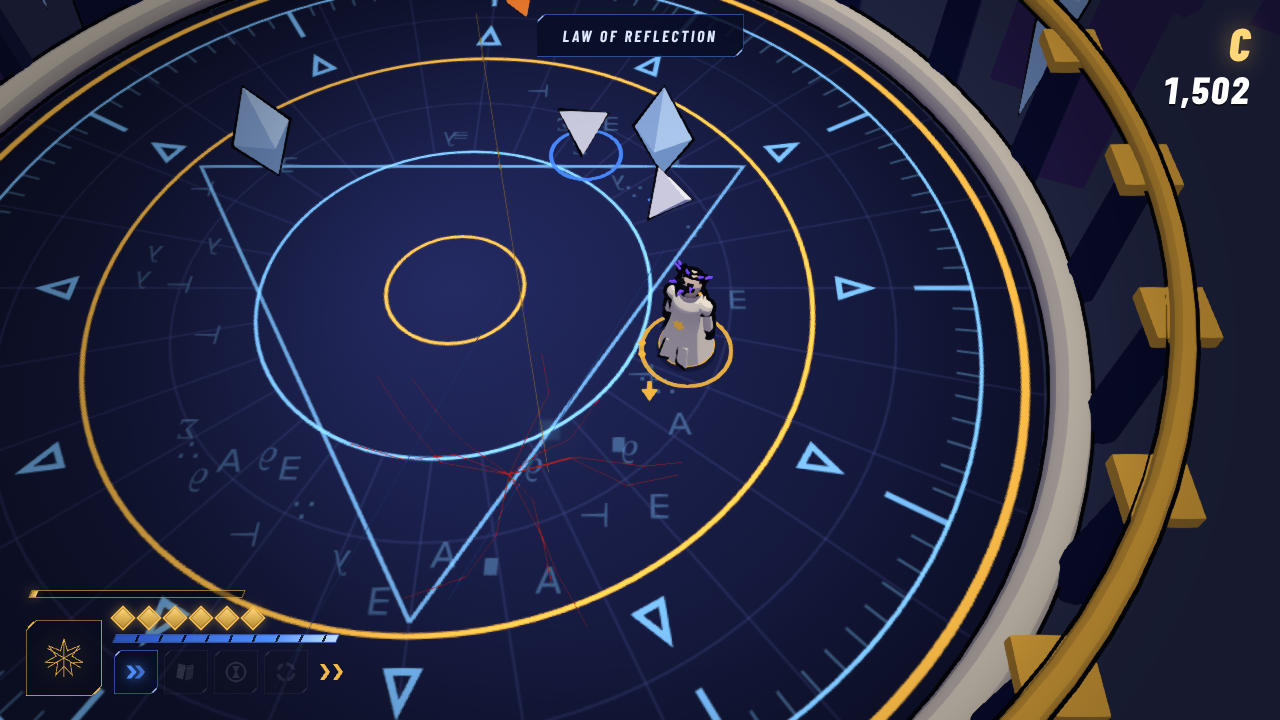
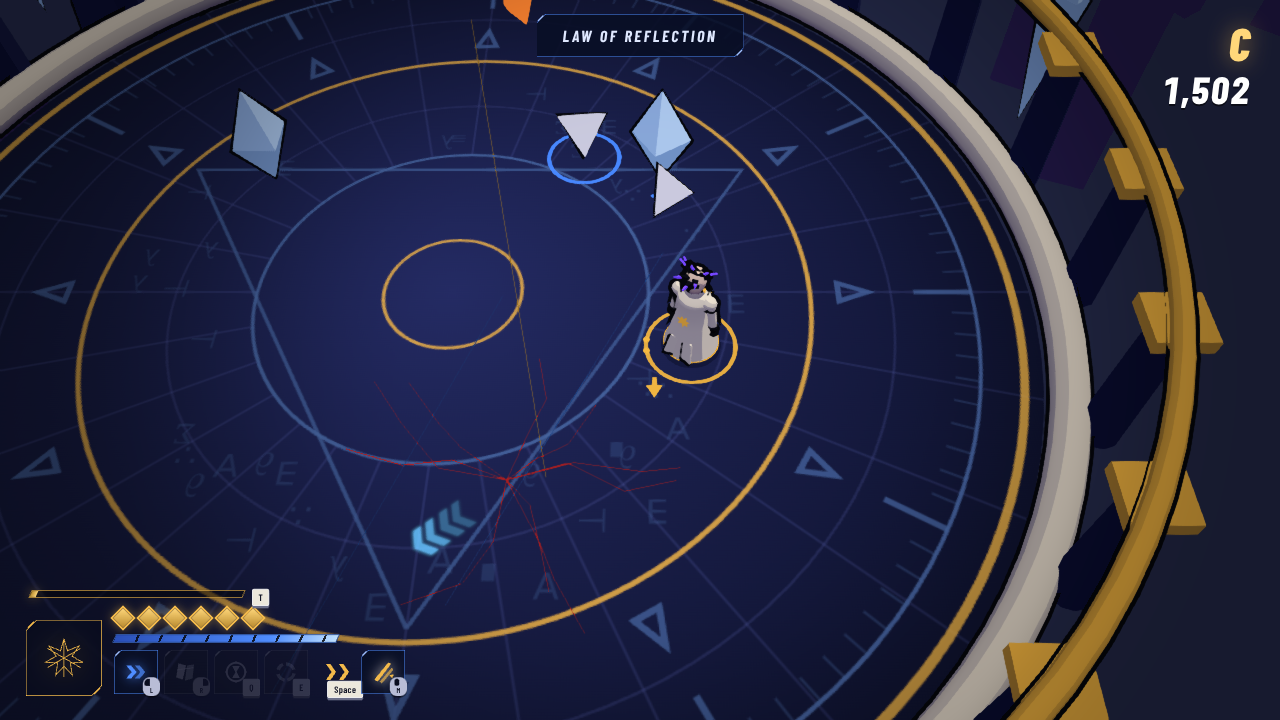
Floor readability, playtest recording and replay, diagnostics export fix
Dark arena floors pull their blue inlay toward the navy ground and stop it
blooming, so glowing blue on the floor is always a threat or Law effect.
Before/after: captures/floor-readability-before-after.png.

Every arena now records its def, options and input frames plus a summary
(outcome, time, Seals lost by cause, compounds). Human analog input is
snapped to 1/4096 so recordings replay exactly; tools/replay.ts replays an
exported diagnostics file headless. The existing diagnostics export put its
data under a key the shell ignores; it now uses the shell's game/replay
fields.

Tested: npm run check green (69 tests incl. new record/replay round trip);
browser e2e keyboard+mouse session exported and replayed with a match.

Claude-Session: https://claude.ai/code/session_01HCSJ6HR3sh4mwvRhn2D6KD

diff --git a/src/meta/PlaytestLog.ts b/src/meta/PlaytestLog.ts
@@ -1,0 +1,115 @@
+import type { EncounterDef } from "../sim/encounter";
+import type { InputFrame } from "../sim/types";
+import type { WorldOptions } from "../sim/World";
+
+/**
+ * Playtest recording. The sim is deterministic, so an arena's def + options + input frames reproduce the run exactly
+ * (`tools/replay.ts`). Each arena also gets a small summary (outcome, time, Seals lost by cause, compounds) for
+ * reading many sessions at a glance. Inputs stay in memory for the last few arenas; summaries persist per browser.
+ */
+export interface ArenaSummary {
+  id: string;
+  kind: string;
+  status: "clear" | "lost" | "quit";
+  frames: number;
+  seed: number | string;
+  difficulty?: string;
+  sealsLost: Record<string, number>;
+  compounds: number;
+  firstCompoundFrame: number | null;
+  score: number;
+  rank?: string;
+  bossPhase?: number;
+  at: number;
+}
+
+/** Input frames, run-length encoded: [repeat, mx, mz, ax, az, aiming(0|1), buttons]. */
+export type PackedInput = [number, number, number, number, number, number, number];
+
+export interface ArenaRecording { summary: ArenaSummary; def: EncounterDef; opts: WorldOptions; inputs: PackedInput[] }
+
+const KEEP_RECORDINGS = 12;
+const KEEP_SUMMARIES = 400;
+const STORE_KEY = "mandark-ishtar.playtest.v1";
+
+/** Analog input is snapped to 1/4096 before it reaches the sim, so recordings are compact and replay bit-exact. */
+export function quantize(f: InputFrame): InputFrame {
+  const q = (v: number) => Math.round(v * 4096) / 4096;
+  return { mx: q(f.mx), mz: q(f.mz), ax: q(f.ax), az: q(f.az), aiming: f.aiming, b: f.b };
+}
+
+export function unpack(inputs: PackedInput[]): InputFrame[] {
+  const out: InputFrame[] = [];
+  for (const [n, mx, mz, ax, az, aiming, b] of inputs) for (let i = 0; i < n; i++) out.push({ mx, mz, ax, az, aiming: aiming === 1, b });
+  return out;
+}
+
+export class PlaytestLog {
+  readonly recordings: ArenaRecording[] = [];
+  summaries: ArenaSummary[] = [];
+  private cur: ArenaRecording | null = null;
+
+  constructor(private readonly storage: Pick<Storage, "getItem" | "setItem"> | null = null) {
+    try {
+      const raw = storage?.getItem(STORE_KEY);
+      const parsed = raw ? (JSON.parse(raw) as { summaries?: ArenaSummary[] }) : null;
+      if (parsed && Array.isArray(parsed.summaries)) this.summaries = parsed.summaries;
+    } catch { /* unavailable or corrupt: start empty */ }
+  }
+
+  begin(def: EncounterDef, opts: WorldOptions): void {
+    if (this.cur) this.end("quit", { frames: this.frameCount(), score: 0, compounds: this.cur.summary.compounds });
+    this.cur = {
+      def: JSON.parse(JSON.stringify(def)) as EncounterDef,
+      opts: JSON.parse(JSON.stringify(opts)) as WorldOptions,
+      inputs: [],
+      summary: { id: def.id, kind: def.kind, status: "quit", frames: 0, seed: opts.seed, difficulty: opts.difficulty, sealsLost: {}, compounds: 0, firstCompoundFrame: null, score: 0, at: Date.now() },
+    };
+  }
+
+  /** Call once per sim step with the exact frame given to `World.step`. */
+  input(f: InputFrame): void {
+    const c = this.cur; if (!c) return;
+    const last = c.inputs[c.inputs.length - 1];
+    const a = f.aiming ? 1 : 0;
+    if (last && last[1] === f.mx && last[2] === f.mz && last[3] === f.ax && last[4] === f.az && last[5] === a && last[6] === f.b) last[0]++;
+    else c.inputs.push([1, f.mx, f.mz, f.ax, f.az, a, f.b]);
+  }
+
+  sealLost(cause: string): void { const s = this.cur?.summary; if (s) s.sealsLost[cause] = (s.sealsLost[cause] ?? 0) + 1; }
+  compound(frame: number): void { const s = this.cur?.summary; if (s && s.firstCompoundFrame === null) s.firstCompoundFrame = frame; }
+
+  end(status: ArenaSummary["status"], r: { frames: number; score: number; compounds: number; rank?: string; bossPhase?: number }): void {
+    const c = this.cur; if (!c) return;
+    this.cur = null;
+    Object.assign(c.summary, { status, frames: r.frames, score: r.score, compounds: r.compounds, rank: r.rank, bossPhase: r.bossPhase });
+    this.recordings.push(c); if (this.recordings.length > KEEP_RECORDINGS) this.recordings.shift();
+    this.summaries.push(c.summary); if (this.summaries.length > KEEP_SUMMARIES) this.summaries.shift();
+    try { this.storage?.setItem(STORE_KEY, JSON.stringify({ summaries: this.summaries })); } catch { /* quota/private mode */ }
+  }
+
+  /** The arena being played right now (status "quit"), so an export taken mid-fight still replays. */
+  inProgress(): ArenaRecording | null {
+    const c = this.cur; if (!c) return null;
+    return { ...c, inputs: c.inputs.map((p) => [...p] as PackedInput), summary: { ...c.summary, sealsLost: { ...c.summary.sealsLost }, status: "quit", frames: this.frameCount() } };
+  }
+
+  private frameCount(): number { return (this.cur?.inputs ?? []).reduce((s, p) => s + p[0], 0); }
+
+  /** Per-stage rollup across every stored summary: attempts, clears, median clear time, top loss causes. */
+  rollup(): Record<string, { attempts: number; clears: number; medianClearS: number; sealsLost: Record<string, number> }> {
+    const out: Record<string, { attempts: number; clears: number; times: number[]; sealsLost: Record<string, number> }> = {};
+    for (const s of this.summaries) {
+      const o = (out[s.id] ??= { attempts: 0, clears: 0, times: [], sealsLost: {} });
+      o.attempts++;
+      if (s.status === "clear") { o.clears++; o.times.push(s.frames / 60); }
+      for (const [k, v] of Object.entries(s.sealsLost)) o.sealsLost[k] = (o.sealsLost[k] ?? 0) + v;
+    }
+    const res: ReturnType<PlaytestLog["rollup"]> = {};
+    for (const [id, o] of Object.entries(out)) {
+      const t = [...o.times].sort((a, b) => a - b);
+      res[id] = { attempts: o.attempts, clears: o.clears, medianClearS: t.length ? Math.round(t[Math.floor(t.length / 2)]!) : 0, sealsLost: o.sealsLost };
+    }
+    return res;
+  }
+}

diff --git a/src/app/App.ts b/src/app/App.ts
@@ -42,6 +42,7 @@ import type { Bot } from "../dev/bots/BotKit";
 import { AssetLoader } from "./AssetLoader";
 import { codexArt } from "../ui/cardArt";
 import { installDevHooks } from "../dev/devHooks";
+import { PlaytestLog, quantize } from "../meta/PlaytestLog";
 import type { Bark } from "../data/barks";
 import { PERF } from "../data/perf";
 import { tunables } from "@slu/web-shell/tuning";
@@ -89,6 +90,7 @@ export class App {
   private hintShown = "";
   readonly perf = { frameMs: [] as number[], simMs: [] as number[], drawCalls: 0, triangles: 0, heapMB: 0 };
   readonly allEvents: string[] = [];
+  readonly playtest = new PlaytestLog((() => { try { return window.localStorage; } catch { return null; } })());
   private onArenaDone: ((status: "clear" | "lost") => void) | null = null;
   private recovery: ReturnType<typeof mountRecoveryUI> | null = null;
   private padConnected = false;
@@ -234,13 +236,17 @@ export class App {
     const w = this.world!;
     let f: InputFrame;
     if (this.bot) f = this.bot.next(w);
-    else f = this.input.frameFor({ x: this.view.markovPos.x, z: this.view.markovPos.z }, 0);
+    else f = quantize(this.input.frameFor({ x: this.view.markovPos.x, z: this.view.markovPos.z }, 0));
+    this.playtest.input(f);
     w.step(f);
     this.view.snap(w);
     for (const e of w.events) this.onEvent(e, w);
     this.onboardingTick(w, f);
     if (w.markov.insightT > 0 && w.frame % 2 === 0) this.vfx.insightLines(w);
-    if (w.status === "clear" || w.status === "lost") { const done = this.onArenaDone; this.onArenaDone = null; done?.(w.status); }
+    if (w.status === "clear" || w.status === "lost") {
+      const r = w.status === "clear" ? w.scorer.finalized : null;
+      this.playtest.end(w.status, { frames: w.frame, score: r?.score ?? Math.round(w.scorer.score), compounds: w.ops.compoundsUsed, rank: r?.rank, bossPhase: w.director.bossPhase });
+      const done = this.onArenaDone; this.onArenaDone = null; done?.(w.status); }
   }
 
   private renderScene(): void {
@@ -289,7 +295,7 @@ export class App {
       case "RingOut": this.ui.feed("RING-OUT", "gold"); break;
       case "Redirect": if ((e.value ?? 0) > 1) this.ui.feed(`REDIRECT ×${e.value}`, "gold"); break;
       case "PrismPass": this.ui.feed(`REDIRECT ×${(e.value ?? 0) + 1}`, "gold"); break;
-      case "CompoundCast": this.ui.feed(compoundName(e.kind ?? ""), "gold"); break;
+      case "CompoundCast": this.playtest.compound(w.frame); this.ui.feed(compoundName(e.kind ?? ""), "gold"); break;
       case "Flourish": this.camera.flourish(); this.music.cadence(); break;
       case "WaveStart": this.music.setLayers(3 + (e.value ?? 0) * 2); break;
       case "LawDeclared": if (e.kind && e.kind !== "ishtar") this.ui.lawCard(e.kind as LawId, this.assets.url(`lawcard.${e.kind}`)); break;
@@ -304,7 +310,7 @@ export class App {
       case "HubrisShatter": this.music.stop(); setTimeout(() => this.music.play(this.cueFor(w.def), w.def.law), 2000); break;
       case "BossIntro": this.barks.pick(`boss${(e.kind ?? "").charAt(0).toUpperCase()}${(e.kind ?? "").slice(1)}`, w.frame, true); break;
       case "Interact": this.onInteract(e.text ?? ""); break;
-      case "SealLost": if ((e.value ?? 6) <= 2) this.barks.pick("lowSeals", w.frame); break;
+      case "SealLost": this.playtest.sealLost(e.kind ?? "unknown"); if ((e.value ?? 6) <= 2) this.barks.pick("lowSeals", w.frame); break;
       case "InsightStart": this.shell.production.onboarding.show("stillness"); break;
       default: break;
     }
@@ -462,7 +468,9 @@ export class App {
 
   startWorld(def: EncounterDef, opts: Partial<WorldOptions>, done: (s: "clear" | "lost") => void): World {
     this.seed++;
-    const w = new World(def, { seed: this.seed, ...opts });
+    const wopts = { seed: this.seed, ...opts };
+    this.playtest.begin(def, wopts);
+    const w = new World(def, wopts);
     this.world = w;
     this.view.load(w, this.progress.data.campaignComplete);
     this.vfx.clear();
@@ -781,7 +789,10 @@ export class App {
   }
 
   exportDiagnostics(): string {
-    const bundle = this.shell.exportPlaytestBundle({ extras: { perf: this.perfSummary(), progress: this.progress.data, events: this.allEvents.slice(-200) } } as never);
+    const bundle = this.shell.exportPlaytestBundle({
+      game: { perf: this.perfSummary(), progress: this.progress.data, events: this.allEvents.slice(-200), playtest: { rollup: this.playtest.rollup(), summaries: this.playtest.summaries } },
+      replay: { recordings: [...this.playtest.recordings, ...[this.playtest.inProgress()].filter((r) => r !== null)] },
+    });
     try {
       const blob = new Blob([bundle], { type: "application/json" });
       const a = document.createElement("a"); a.href = URL.createObjectURL(blob); a.download = "mandark-ishtar-diagnostics.json"; a.click();

diff --git a/src/world/ArenaKit.ts b/src/world/ArenaKit.ts
@@ -32,13 +32,18 @@ function glyphFloorTexture(theme: string, accent: number): { map: THREE.CanvasTe
     for (let i = 0; i < 28; i++) { const a = (i / 28) * Math.PI * 2; base.beginPath(); base.moveTo(cx + Math.cos(a) * 0.34 * cx, cx + Math.sin(a) * 0.34 * cx); base.lineTo(cx + Math.cos(a) * cx, cx + Math.sin(a) * cx); base.stroke(); }
     for (const r of [0.48, 0.76]) { base.beginPath(); base.arc(cx, cx, r * cx, 0, Math.PI * 2); base.stroke(); }
   }
-  const blue = `#${accent.toString(16).padStart(6, "0")}`;
+  // Readability: saturated blue is the threat/Law colour (telegraphs, Certainty rings). On dark floors the inlay is
+  // pulled most of the way to the navy ground and never blooms, so blue that glows on the floor is always a threat.
+  const blue = light ? `#${accent.toString(16).padStart(6, "0")}` : inlayTone(accent);
   const gold = light ? "#c9a24a" : "#f2b94a";
   const rng = new DeterministicRng(theme.length * 977 + theme.charCodeAt(0));
   const g = line;
-  // concentric rules: the outer and middle bands are gold inlay, the rest blue light
+  const [goldC, goldG] = mk();
+  // concentric rules: the outer and middle bands are gold inlay, the rest quiet blue
   for (const [r, w, c] of [[0.97, 7, gold], [0.9, 3, blue], [0.62, 4, gold], [0.34, 3, blue], [0.12, 3, gold]] as [number, number, string][]) {
-    g.strokeStyle = c; g.globalAlpha = light ? 0.55 : 0.9; g.lineWidth = w; g.beginPath(); g.arc(cx, cx, r * cx, 0, Math.PI * 2); g.stroke();
+    for (const ctx of c === gold ? [g, goldG] : [g]) {
+      ctx.strokeStyle = c; ctx.globalAlpha = light ? 0.55 : c === gold ? 0.75 : 0.9; ctx.lineWidth = w; ctx.beginPath(); ctx.arc(cx, cx, r * cx, 0, Math.PI * 2); ctx.stroke();
+    }
   }
   // radial ticks (cuneiform-meets-math)
   g.strokeStyle = blue;
@@ -69,11 +74,18 @@ function glyphFloorTexture(theme: string, accent: number): { map: THREE.CanvasTe
   base.drawImage(lineC, 0, 0);
   const [glowC, glowG] = mk();
   glowG.fillStyle = "#000"; glowG.fillRect(0, 0, size, size);
-  if (!light) glowG.drawImage(lineC, 0, 0);
+  if (!light) { glowG.globalAlpha = 0.55; glowG.drawImage(goldC, 0, 0); glowG.globalAlpha = 1; }
   const tex = (c: HTMLCanvasElement) => { const t = new THREE.CanvasTexture(c); t.colorSpace = THREE.SRGBColorSpace; t.anisotropy = 4; return t; };
   const out = { map: tex(baseC), glow: tex(glowC) };
   texCache.set(theme, out);
   return out;
+}
+
+/** Floor inlay tone for dark floors: the theme accent mixed 60% toward the navy ground. */
+function inlayTone(accent: number): string {
+  const navy = 0x262d63, k = 0.6;
+  const ch = (sh: number) => Math.round(((accent >> sh) & 255) * (1 - k) + ((navy >> sh) & 255) * k);
+  return `rgb(${ch(16)},${ch(8)},${ch(0)})`;
 }
 
 let sky: THREE.Mesh | null = null;

diff --git a/tests/playtest.test.ts b/tests/playtest.test.ts
@@ -1,0 +1,41 @@
+import { describe, expect, it } from "vitest";
+import { encounterById } from "../src/data/trials";
+import { SolverBot } from "../src/dev/bots/SolverBot";
+import { World } from "../src/sim/World";
+import { PlaytestLog, quantize, type ArenaRecording } from "../src/meta/PlaytestLog";
+import { replayRecording } from "../src/dev/replay";
+import { regaliaForTrial } from "../src/campaign/sequence";
+
+describe("playtest recording", () => {
+  it("a recorded arena replays to the same outcome after a JSON round trip", () => {
+    const def = encounterById("1-1")!;
+    const opts = { seed: 42, difficulty: "savant" as const, regalia: regaliaForTrial(1) };
+    const log = new PlaytestLog();
+    log.begin(def, opts);
+    const w = new World(def, opts), bot = new SolverBot();
+    while (w.frame < 60 * 60 * 5 && w.status !== "clear" && w.status !== "lost") {
+      const f = quantize(bot.next(w));
+      log.input(f);
+      w.step(f);
+      for (const e of w.events) if (e.type === "SealLost") log.sealLost(e.kind ?? "unknown");
+    }
+    log.end(w.status === "clear" ? "clear" : "lost", { frames: w.frame, score: w.scorer.finalized?.score ?? Math.round(w.scorer.score), compounds: w.ops.compoundsUsed });
+    expect(w.status).toBe("clear");
+    const rec = JSON.parse(JSON.stringify(log.recordings[0])) as ArenaRecording;
+    expect(rec.inputs.length).toBeLessThan(w.frame); // run-length encoding helps
+    const r = replayRecording(rec);
+    expect(r.status).toBe(rec.summary.status);
+    expect(r.frames).toBe(rec.summary.frames);
+    expect(r.score).toBe(rec.summary.score);
+    expect(r.matches).toBe(true);
+    expect(log.rollup()["1-1"]!.attempts).toBe(1);
+  });
+
+  it("survives missing or corrupt storage", () => {
+    const bad = { getItem: () => "{nope", setItem: () => { throw new Error("quota"); } };
+    const log = new PlaytestLog(bad);
+    log.begin(encounterById("1-1")!, { seed: 1 });
+    log.end("quit", { frames: 0, score: 0, compounds: 0 });
+    expect(log.summaries.length).toBe(1);
+  });
+});

diff --git a/src/dev/replay.ts b/src/dev/replay.ts
@@ -1,0 +1,20 @@
+import { World } from "../sim/World";
+import { unpack, type ArenaRecording } from "../meta/PlaytestLog";
+
+export interface ReplayResult { id: string; status: string; frames: number; score: number; rank?: string; sealsLost: Record<string, number>; matches: boolean }
+
+/** Re-runs a recorded arena headless and checks it ends where the recording says it did. */
+export function replayRecording(rec: ArenaRecording, onFrame?: (w: World) => void): ReplayResult {
+  const w = new World(rec.def, rec.opts);
+  const sealsLost: Record<string, number> = {};
+  for (const f of unpack(rec.inputs)) {
+    if (w.status === "clear" || w.status === "lost") break;
+    w.step(f);
+    for (const e of w.events) if (e.type === "SealLost") sealsLost[e.kind ?? "unknown"] = (sealsLost[e.kind ?? "unknown"] ?? 0) + 1;
+    onFrame?.(w);
+  }
+  const r = w.scorer.finalized;
+  const status = w.status === "clear" || w.status === "lost" ? w.status : "quit";
+  const score = r?.score ?? Math.round(w.scorer.score);
+  return { id: rec.def.id, status, frames: w.frame, score, rank: r?.rank, sealsLost, matches: status === rec.summary.status && w.frame === rec.summary.frames && (status === "quit" || score === rec.summary.score) };
+}

diff --git a/tools/replay.ts b/tools/replay.ts
@@ -1,0 +1,16 @@
+// Replays the recordings inside an exported diagnostics file: npx vite-node tools/replay.ts <file.json>
+import { readFileSync } from "node:fs";
+import { replayRecording } from "../src/dev/replay";
+import type { ArenaRecording, ArenaSummary } from "../src/meta/PlaytestLog";
+
+const file = process.argv[2];
+if (!file) { console.error("usage: npx vite-node tools/replay.ts <diagnostics.json>"); process.exit(1); }
+const bundle = JSON.parse(readFileSync(file, "utf8")) as { game?: { playtest?: { rollup: unknown; summaries: ArenaSummary[] } }; replay?: { recordings: ArenaRecording[] } };
+const pt = bundle.game?.playtest ? { ...bundle.game.playtest, recordings: bundle.replay?.recordings ?? [] } : null;
+if (!pt) { console.error("no playtest data in this file"); process.exit(1); }
+console.log(`${pt.summaries.length} arena summaries, ${pt.recordings.length} recordings\n`);
+console.table(pt.rollup);
+for (const rec of pt.recordings) {
+  const r = replayRecording(rec);
+  console.log(`${r.matches ? "✓" : "✗ DESYNC"} ${r.id} ${r.status} ${(r.frames / 60).toFixed(1)}s score ${r.score} lost ${JSON.stringify(r.sealsLost)}`);
+}

diff --git a/DECISIONS.md b/DECISIONS.md
@@ -76,3 +76,6 @@ Append-only. Format: `YYYY-MM-DD — Decision — Why — Status (LOCKED / provi
 - 2026-11-10 — From the BB:EEX references (settings screens): Settings split into Audio / Gameplay / Display / Controls / Other tabs, switched with LB/RB (Q/E on keyboard) or by clicking; adjustable values show ‹ › on focus and every cycling value accepts left/right; prompt-bar entries are clickable for mouse users. Tab choice is remembered for the session — provisional
 - 2026-11-10 — BB:EEX menu patterns adopted: (1) slanted right-side choice bars that slide in, focused bar filled gold with ink text — main, pause, arcade, Time Attack picker, retry; long lists (Theorems, Codex, Controls) stay in panels; (2) top-centre hint line with a waveform, used only for real instructions/choice info (arcade mode descriptions, rebind capture); (3) settings description panel for options that need a sentence; (4) hex-emblem cards with category frame colours (Law blue, Boss gold, Theorem ivory, Story violet) plus a category word so colour is never the only cue. Reduce motion now also disables menu animation — provisional
 - 2026-11-10 — Title/menu backdrop is a slow, low orbit of the Observatory (pitch 14°, lookY 6, ~4°/s; held still under Reduce motion) so the moon and skyline pass through frame; the title and bar-menu overlays are lightened so the scene shows. Press-start beat: double diamond ring burst, wordmark lift, soft flash scaled by Flash intensity, ui.confirm, then the menu after ~0.55 s (0.14 s, no burst, under Reduce motion). Sky shader now normalises per pixel (round moon) and the moon sits just under the bloom threshold — provisional
+- 2026-11-10 — Floor readability: on dark floors the blue inlay is mixed 60% toward the navy ground and no longer feeds the emissive map; only the gold rules glow (at 55%). Saturated, glowing blue on the floor now means a threat or Law effect (telegraphs, Certainty rings). Light grace floors unchanged — provisional (captures/floor-readability-before-after.png)
+- 2026-11-10 — Playtest recording: every arena records def + options + input frames (run-length encoded) and a summary (outcome, time, Seals lost by cause, compounds, first compound frame). Human analog input is snapped to 1/4096 before the sim so recordings replay bit-exact. Settings → Other → Export diagnostics now carries it (`game.playtest`, `replay.recordings`, last 12 arenas + the one in progress); `npx vite-node tools/replay.ts <file>` replays them headless. Summaries persist per browser (localStorage, outside the save schema) — LOCKED
+- 2026-11-10 — Bug fixed: Export diagnostics passed its perf/progress/events under an `extras` key the shell ignores, so they were never in the file. They now go under the shell's `game` field — LOCKED
